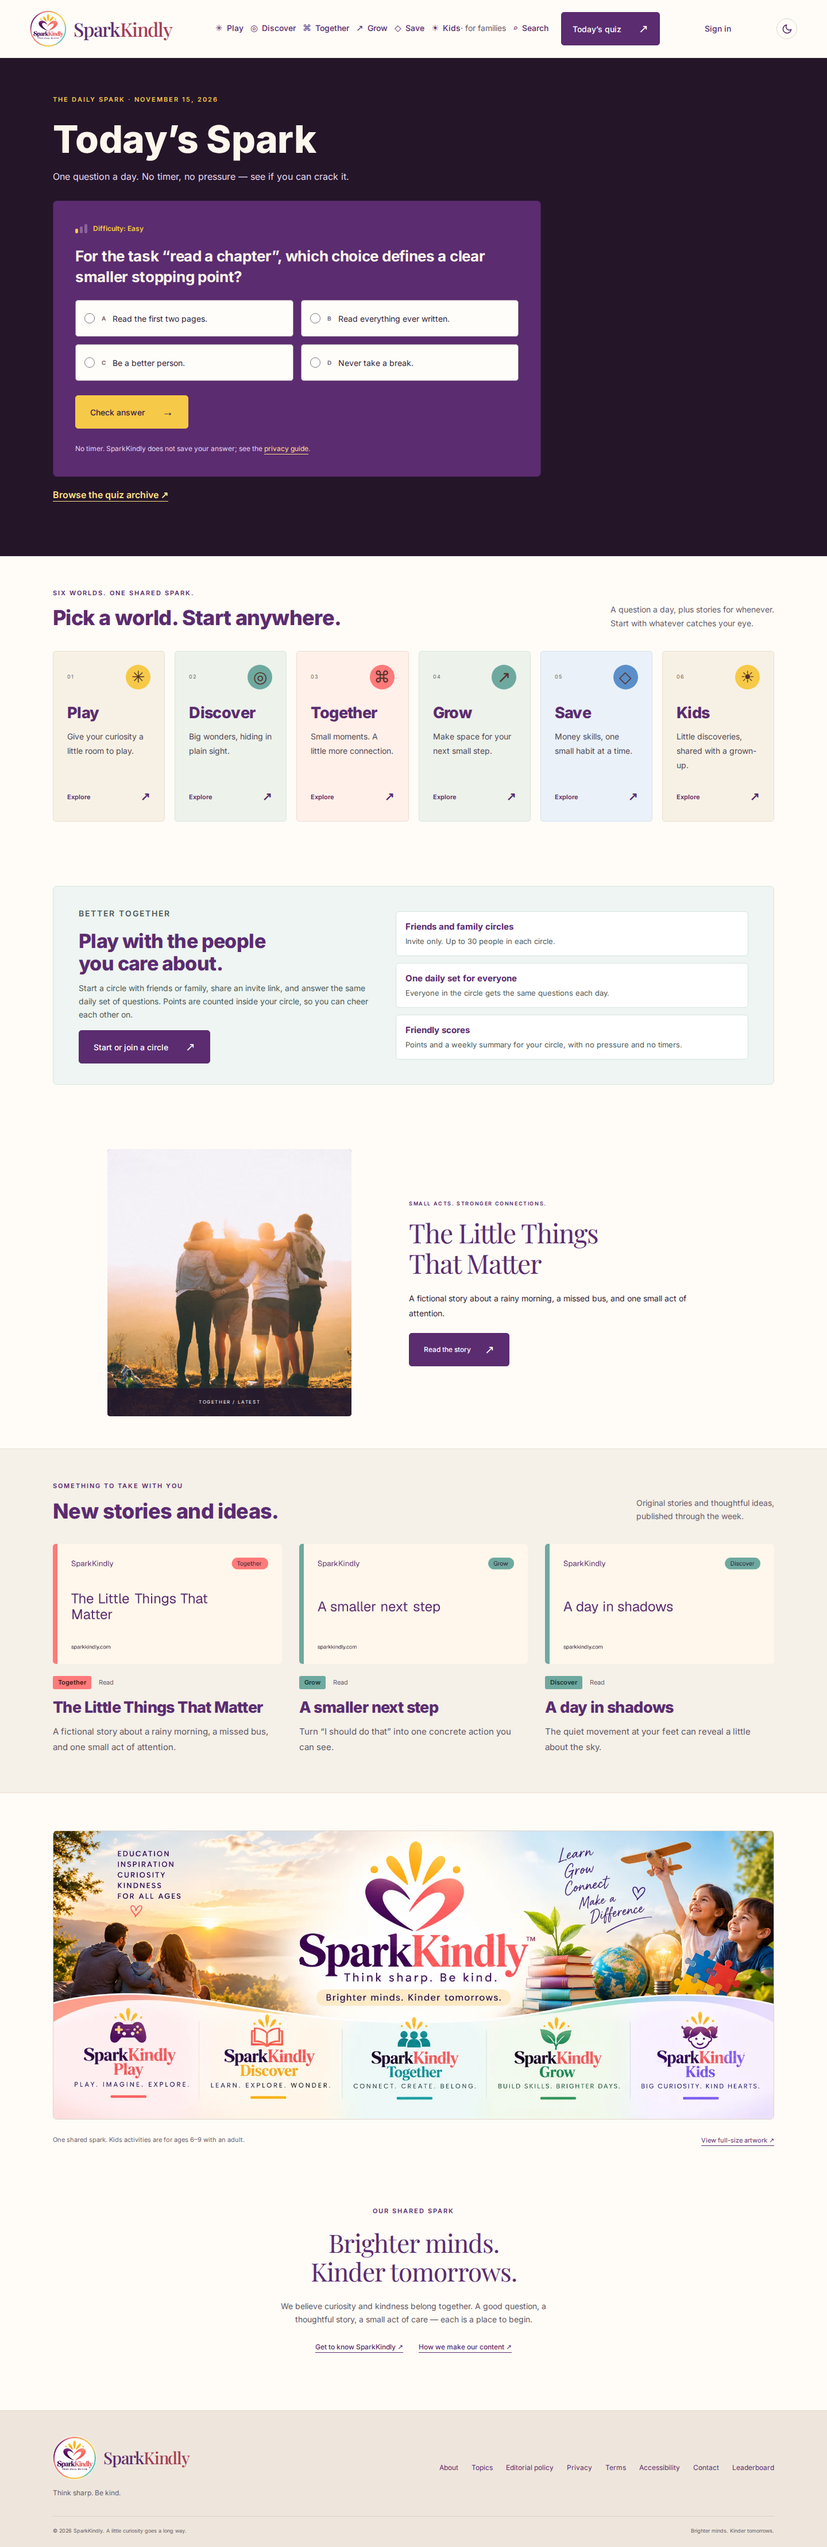
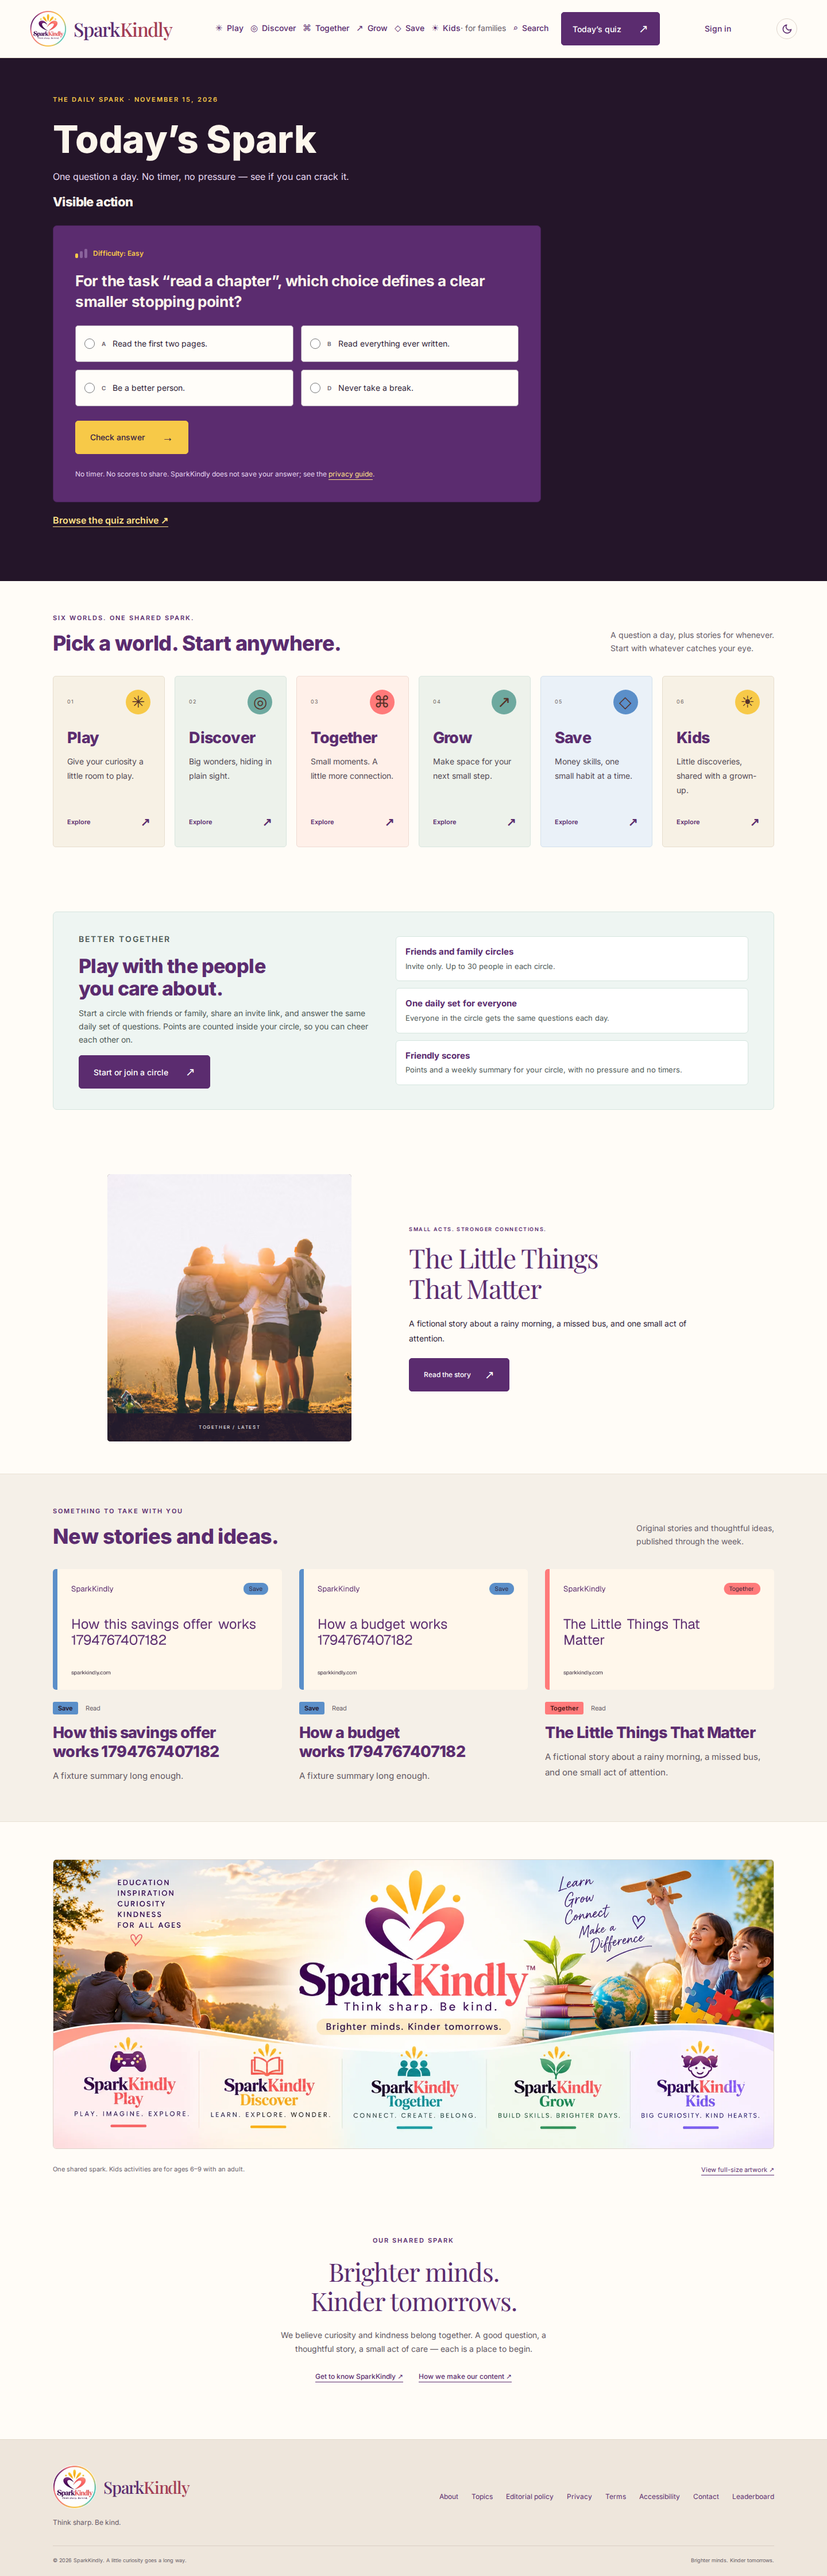
fix: Restore the contracts the teen-UI pass broke (CI e2e findings)
Four failures in the full e2e suite, each a real contract:
- The homepage hero shows the daily quiz's title again (the old
  quiz-feature preview carried it; anonymous visitors and the scope
  tests rely on it being on the home page).
- The play panel's answer notes are restored word-for-word: the
  save/no-save wording is the product's privacy promise, not
  decoration to shorten.
- The circle scores marker reads '(you)' again, in the new pill
  style, matching the row's accessible name.
- The Save world's saturated label darkens to #241529 (was 4.4:1,
  under the WCAG AA line; now 5.1:1, same correction as the sky
  intro text).
Verified: the four tests plus the a11y and site suites, 26 passed.

diff --git a/app/page.tsx b/app/page.tsx
@@ -14,7 +14,7 @@ import {organizationLd,websiteLd} from '@/lib/public/jsonld';
 export const metadata=seo('SparkKindly — Think sharp. Be kind.','A daily dose of curiosity, connection, and small steps. Explore the worlds of SparkKindly.','/',{absoluteTitle:true});
 export const dynamic='force-dynamic';
 export default async function Home(){const db=getDb();const scope=await currentScope();const [worlds,latest,together,quiz]=await Promise.all([navWorlds(),listPublic(db,scope,{kind:'article',limit:3,offset:0}),listPublic(db,scope,{world:'together',kind:'article',limit:1,offset:0}),latestQuiz(db,scope)]);const featured=together[0];const byWorld=new Map(worlds.map(w=>[w.slug,w]));return <>
-{quiz?<section className="spark-hero"><div className="container"><p className="eyebrow">THE DAILY SPARK · {formatDay(new Date()).toUpperCase()}</p><h1>Today’s Spark</h1><p className="spark-hero-sub">One question a day. No timer, no pressure — see if you can crack it.</p><PlayPanel item={quiz} searchParams={{}}/><p><Link className="spark-archive-link" href="/quiz/archive/">Browse the quiz archive ↗</Link></p></div></section>:<section className="hero"><Picture className="hero-image" src="/images/hero.webp" width={1600} height={1067} alt="A still lake reflecting mountains in soft natural light" priority sizes="100vw"/><div className="hero-shade"/><div className="container hero-content"><p className="eyebrow light"><span className="tiny-line"/> A LITTLE CURIOSITY. A LOT OF POSSIBILITY.</p><h1>Brighter minds.<br/><em>Kinder</em> tomorrows.</h1><p className="hero-tagline">Think sharp. Be kind.</p><p className="hero-description">A place to play, discover, connect, and grow.<br/>Because small sparks can make a brighter world.</p><div className="hero-actions"><Link className="button gold-button" href="/quiz/">Try today’s quiz <span aria-hidden="true">↗</span></Link><a className="hero-secondary" href="#worlds">Explore our worlds <span aria-hidden="true">↓</span></a></div><div className="hero-bottom"><span>FOR CURIOUS MINDS & KIND HEARTS</span><span>One small spark at a time.</span></div></div></section>}
+{quiz?<section className="spark-hero"><div className="container"><p className="eyebrow">THE DAILY SPARK · {formatDay(new Date()).toUpperCase()}</p><h1>Today’s Spark</h1><p className="spark-hero-sub">One question a day. No timer, no pressure — see if you can crack it.</p><h2 className="spark-hero-title">{quiz.title}</h2><PlayPanel item={quiz} searchParams={{}}/><p><Link className="spark-archive-link" href="/quiz/archive/">Browse the quiz archive ↗</Link></p></div></section>:<section className="hero"><Picture className="hero-image" src="/images/hero.webp" width={1600} height={1067} alt="A still lake reflecting mountains in soft natural light" priority sizes="100vw"/><div className="hero-shade"/><div className="container hero-content"><p className="eyebrow light"><span className="tiny-line"/> A LITTLE CURIOSITY. A LOT OF POSSIBILITY.</p><h1>Brighter minds.<br/><em>Kinder</em> tomorrows.</h1><p className="hero-tagline">Think sharp. Be kind.</p><p className="hero-description">A place to play, discover, connect, and grow.<br/>Because small sparks can make a brighter world.</p><div className="hero-actions"><Link className="button gold-button" href="/quiz/">Try today’s quiz <span aria-hidden="true">↗</span></Link><a className="hero-secondary" href="#worlds">Explore our worlds <span aria-hidden="true">↓</span></a></div><div className="hero-bottom"><span>FOR CURIOUS MINDS & KIND HEARTS</span><span>One small spark at a time.</span></div></div></section>}
 <section id="worlds" className="section container"><div className="section-heading"><div><p className="eyebrow">{worldCountWords(worlds.length).toUpperCase()}. ONE SHARED SPARK.</p><h2>Pick a world. Start anywhere.</h2></div><p>A question a day, plus stories for whenever.<br/>Start with whatever catches your eye.</p></div><div className="world-grid">{worlds.map((w,i)=><BrandCard world={w} index={i} key={w.slug}/>)}</div></section>
 {circlesEnabled()&&<section className="section container" aria-labelledby="circles-heading"><div className="circles-feature"><div><p className="eyebrow">BETTER TOGETHER</p><h2 id="circles-heading">Play with the people you care about.</h2><p>Start a circle with friends or family, share an invite link, and answer the same daily set of questions. Points are counted inside your circle, so you can cheer each other on.</p><Link className="button" href="/circles/">Start or join a circle <span aria-hidden="true">↗</span></Link></div><ul className="circles-points"><li><strong>Friends and family circles</strong>Invite only. Up to 30 people in each circle.</li><li><strong>One daily set for everyone</strong>Everyone in the circle gets the same questions each day.</li><li><strong>Friendly scores</strong>Points and a weekly summary for your circle, with no pressure and no timers.</li></ul></div></section>}
 {featured&&<section className="section container together-feature"><div className="story-poster"><Picture src="/images/together.webp" width={640} height={850} alt="Four people with their arms around one another outdoors in warm light; illustrative reference photograph"/><span className="poster-label">TOGETHER / LATEST</span></div><div className="story-copy"><p className="eyebrow">SMALL ACTS. STRONGER CONNECTIONS.</p><h2>{featured.title}</h2><p>{featured.summary}</p><Link className="button" href={`/${featured.world}/${featured.slug}/`}>Read the story <span aria-hidden="true">↗</span></Link></div></section>}

diff --git a/components/item/PlayPanel.tsx b/components/item/PlayPanel.tsx
@@ -47,22 +47,26 @@ export default async function PlayPanel({ item, searchParams }: { item: PublicIt
 const privacy = <Link href="/privacy/">privacy guide</Link>;
 
 function Note({ note }: { note: AnswerNote }) {
-  // One short line on the play surface (teen UI pass, 15 Nov 2026); the detail lives in the privacy guide.
   switch (note) {
     case 'saved':
-      return <p className="quiz-note">No timer. Your answer is saved to your profile; see the {privacy}.</p>;
+      return <p className="quiz-note">No timer. No scores to share. Your answer is saved to your profile; see the {privacy}.</p>;
     case 'unsaved':
       return (
         <p className="quiz-note">
-          No timer. This answer was not saved — answer with the form above to save it; see the {privacy}.
+          No timer. No scores to share. Your answer is not saved this time. Use the answer form on this page to save it to your
+          profile; see the {privacy}.
         </p>
       );
     case 'before':
-      return <p className="quiz-note">No timer. Answers you check here are saved to your profile; see the {privacy}.</p>;
+      return (
+        <p className="quiz-note">
+          No timer. No scores to share. An answer you check with this form is saved to your profile; see the {privacy}.
+        </p>
+      );
     default:
       return (
         <p className="quiz-note">
-          No timer. SparkKindly does not save your answer; see the <Link href="/privacy/">privacy guide</Link>.
+          No timer. No scores to share. SparkKindly does not save your answer; see the <Link href="/privacy/">privacy guide</Link>.
         </p>
       );
   }

diff --git a/app/globals.css b/app/globals.css
@@ -124,7 +124,7 @@ h1,h2,h3{font-family:var(--sans);font-weight:800;letter-spacing:-.6px}
 .brand-label{background:var(--gold);color:#302438}
 .brand-label.sage{background:var(--sage);color:#17352f}
 .brand-label.coral{background:var(--coral);color:#4a1717}
-.brand-label.sky{background:var(--sky);color:#10283f}
+.brand-label.sky{background:var(--sky);color:#241529}
 .brand-intro{background:var(--gold)}
 .brand-intro.intro-sage{background:var(--sage)}
 .brand-intro.intro-coral{background:var(--coral)}
@@ -276,3 +276,4 @@ html[data-theme="dark"] .theme-toggle .icon-moon{display:none}
 @media(max-width:400px){.header-inner{width:calc(100% - 24px);gap:8px}.wordmark{gap:6px}.brand-name{font-size:22px}.theme-toggle{width:34px;height:34px}}
 @media(min-width:801px) and (max-width:1000px){.nav-families{display:none}.main-nav{gap:8px}.header-inner{gap:10px}.wordmark .brand-badge{width:48px;height:48px}}
 @media(max-width:400px){.menu-toggle{padding:8px;font-size:11px}.wordmark .brand-badge{width:40px;height:40px}.brand-name{font-size:20px}}
+.spark-hero-title{color:#fdf6ec;font-size:22px;margin:18px 0 0}

diff --git a/app/circles/[slug]/scores/page.tsx b/app/circles/[slug]/scores/page.tsx
@@ -39,7 +39,7 @@ function ScoreTable({ board, caption }: { board: Board; caption: string }) {
             </td>
             <th scope="row">
               {r.name}
-              {r.you && <span className="score-you">You</span>}
+              {r.you && <span className="score-you">(you)</span>}
             </th>
             <td>{r.points}</td>
           </tr>
